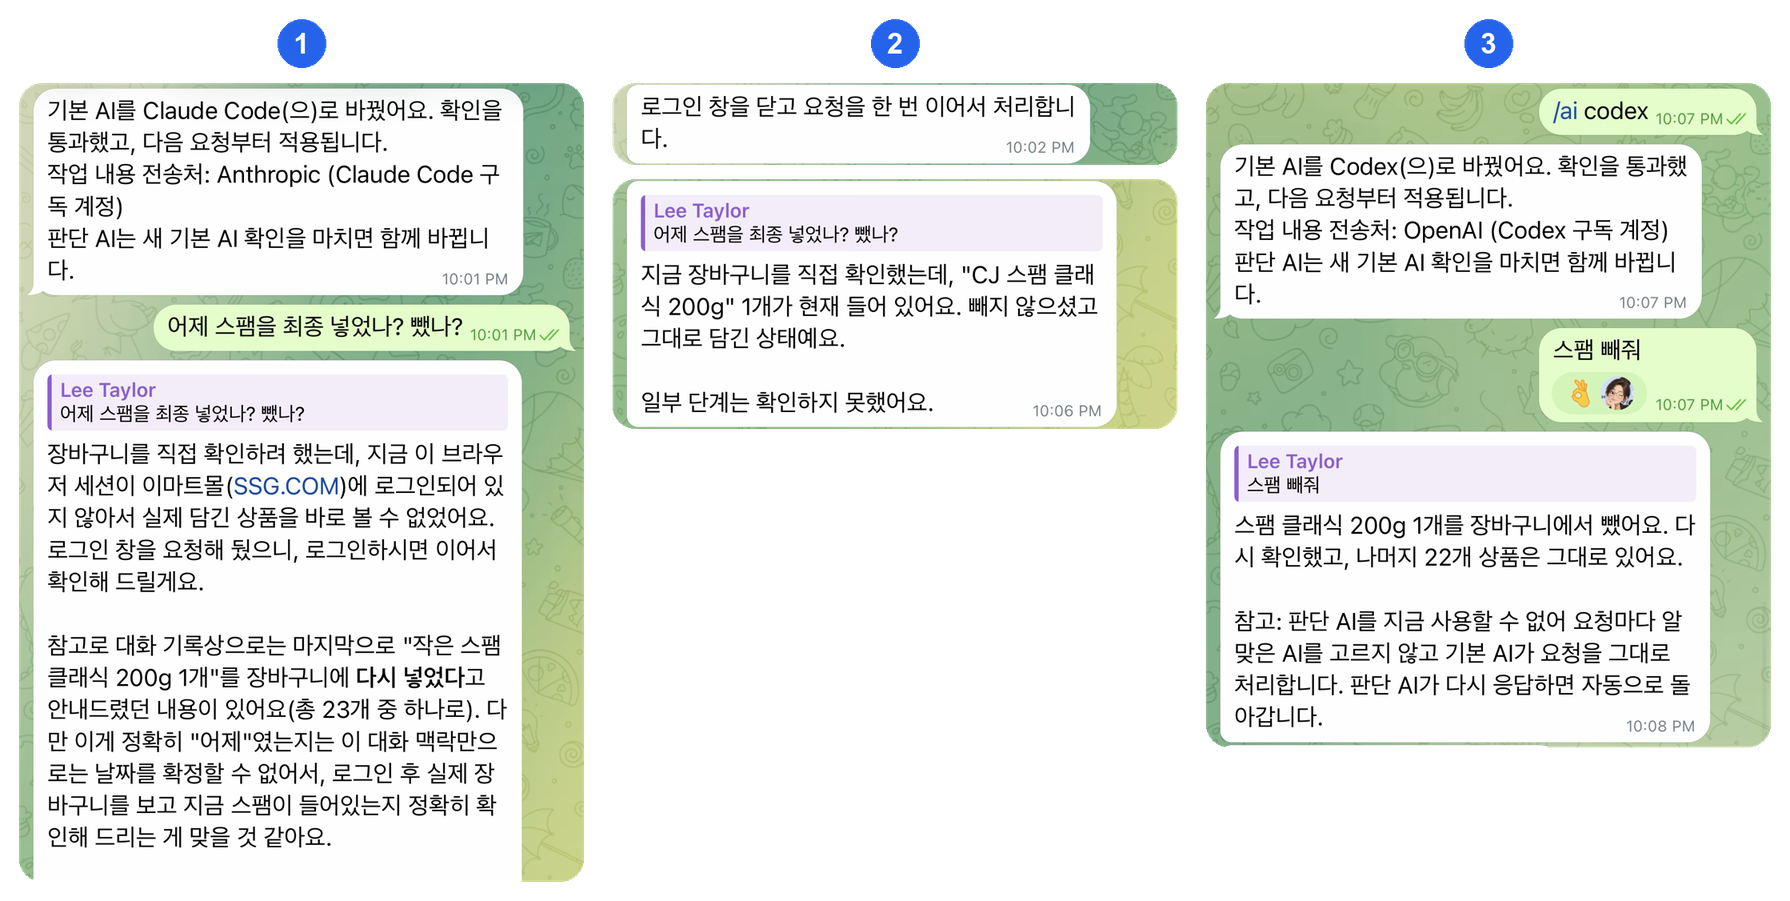
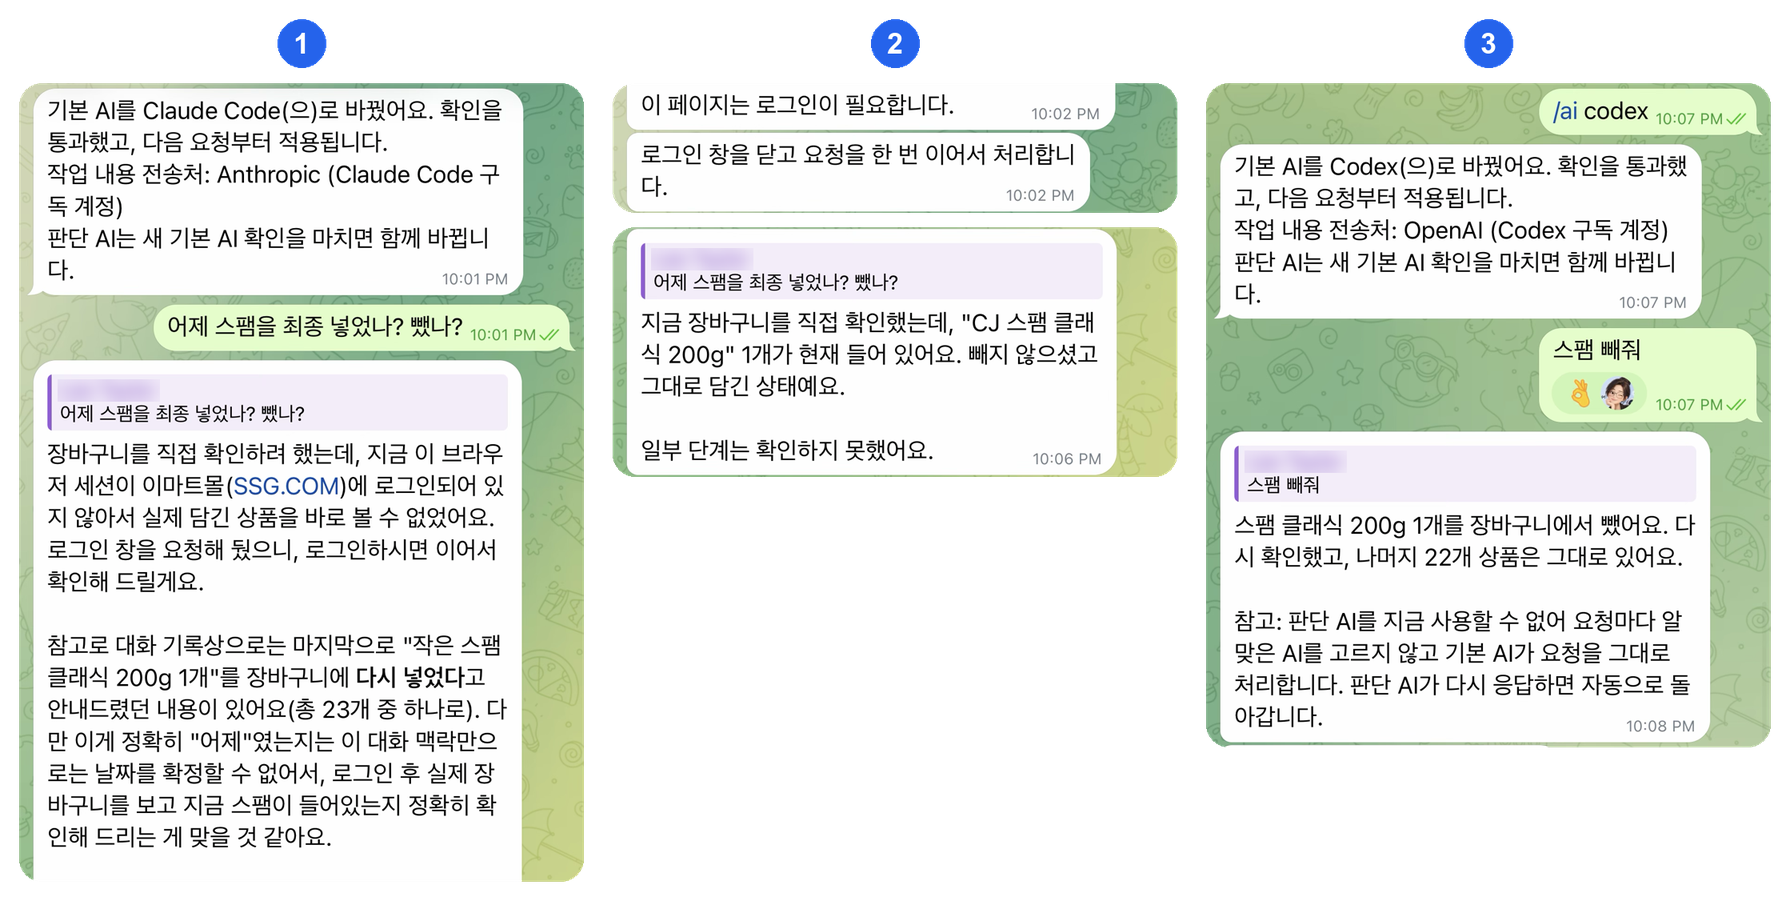
docs: blur the owner's name and show the sign-in notice in the AI-switch image (#1195)
Blur the display name in the three reply quotes, start panel 2 at
"이 페이지는 로그인이 필요합니다." and say so in the four README
captions and the asset provenance.

Changed region(s): [[0.338, 0.0932, 0.676, 0.5283], [0.5531, 0.4351, 0.7682, 0.5283], [0.0307, 0.404, 0.0922, 0.4661]]

diff --git a/docs/assets/readme/ai-switch/build.py b/docs/assets/readme/ai-switch/build.py
@@ -5,19 +5,27 @@ Usage: build.py <source-screenshot-dir> docs/assets/readme/ai-switch
 """
 import hashlib, json, sys
 from pathlib import Path
-from PIL import Image, ImageDraw, ImageFont
+from PIL import Image, ImageDraw, ImageFilter, ImageFont
 
 SRC = Path(sys.argv[1]); OUT = Path(sys.argv[2])
 # (source file, [crop boxes]) per panel, in conversation order.
 PANELS = [
     ("461b29dc-image.png", [(0, 222, 706, 1220)]),                      # 10:01 switch to Claude Code + question
-    ("183d5629-image.png", [(0, 458, 706, 560), (0, 1020, 706, 1332)]), # 10:02-10:06 sign-in resume + cart answer (sign-in link omitted)
+    ("183d5629-image.png", [(0, 398, 706, 560), (0, 1020, 706, 1332)]), # 10:02-10:06 sign-in needed/resume + cart answer (sign-in link omitted)
     ("d5f26819-image.png", [(0, 390, 706, 1220)]),                      # 10:07 switch to Codex + remove
 ]
+# The owner's Telegram display name in each reply quote, blurred before cropping.
+NAME_BOXES = {
+    "461b29dc-image.png": (48, 592, 176, 620),
+    "183d5629-image.png": (48, 1046, 176, 1074),
+    "d5f26819-image.png": (48, 849, 176, 877),
+}
 M, GAP, SEG_GAP, R, CIRCLE = 24, 36, 18, 28, 60
 panels = []
 for name, boxes in PANELS:
     im = Image.open(SRC / name).convert("RGB")
+    box = NAME_BOXES[name]
+    im.paste(im.crop(box).filter(ImageFilter.GaussianBlur(9)), box[:2])
     parts = [im.crop(b) for b in boxes]
     h = sum(p.height for p in parts) + SEG_GAP * (len(parts) - 1)
     p = Image.new("RGBA", (706, h), (0, 0, 0, 0)); y = 0
@@ -49,7 +57,8 @@ manifest = {
         {"source_sha256": hashlib.sha256((SRC / n).read_bytes()).hexdigest(), "source_size": [706, 1536], "crop_boxes": b}
         for n, b in PANELS
     ],
-    "omitted": "phone status bar, chat header and input bar; in panel 2 the one-time sign-in link and its code (between the two crops)",
+    "name_blur_boxes": NAME_BOXES,
+    "omitted": "phone status bar, chat header and input bar; in panel 2 the one-time sign-in link and its code (between the two crops); the owner's display name in reply quotes is blurred",
 }
 (OUT / "manifest.json").write_text(json.dumps(manifest, indent=2, ensure_ascii=False) + "\n")
 print(canvas.size, (OUT / "ai-switch-conversation.png").stat().st_size)

diff --git a/docs/assets/readme/README.md b/docs/assets/readme/README.md
@@ -12,7 +12,7 @@ The demo is edited from real Telegram sessions, with one GIF per README language
 
 ## AI switch conversation
 
-`ai-switch/ai-switch-conversation.png` is used by all four READMEs in the *A conversation that continues when the AI changes* section. It crops three owner-supplied Telegram screenshots of one real session (2026-10-08, 10:01–10:08 PM, Korean UI): the switch to Claude Code and the question about yesterday's cart, the cart answer after signing in again, and the switch to Codex with the removal. The crops drop the phone status bar, chat header, input bar and, in panel 2, the one-time sign-in link. The switch notices, the owner's requests and the PA's replies stay whole, including the limits the PA stated ("일부 단계는 확인하지 못했어요" and the decision-model fallback note). Source digests, crop boxes and the output digest are in [ai-switch/manifest.json](ai-switch/manifest.json); [ai-switch/build.py](ai-switch/build.py) rebuilds the image from the source screenshots, which are not committed. This is a selected real session, not release-specific end-to-end validation.
+`ai-switch/ai-switch-conversation.png` is used by all four READMEs in the *A conversation that continues when the AI changes* section. It crops three owner-supplied Telegram screenshots of one real session (2026-10-08, 10:01–10:08 PM, Korean UI): the switch to Claude Code and the question about yesterday's cart, the sign-in notice and the cart answer after signing in again, and the switch to Codex with the removal. The crops drop the phone status bar, chat header, input bar and, in panel 2, the one-time sign-in link. The owner's display name in the reply quotes is blurred. The switch notices, the owner's requests and the PA's replies stay whole, including the limits the PA stated ("일부 단계는 확인하지 못했어요" and the decision-model fallback note). Source digests, crop boxes and the output digest are in [ai-switch/manifest.json](ai-switch/manifest.json); [ai-switch/build.py](ai-switch/build.py) rebuilds the image from the source screenshots, which are not committed. This is a selected real session, not release-specific end-to-end validation.
 
 ## Current introduction
 

diff --git a/README.ja.md b/README.ja.md
@@ -107,7 +107,7 @@ Windows では PowerShell で `wsl --install` を実行して再起動し、Ubun
 <p align="center">
   <img src="docs/assets/readme/ai-switch/ai-switch-conversation.png" alt="韓国語の Telegram 画面 3 枚を切り出した画像。1: Claude Code に切り替えたあと、昨日スパムを入れたか抜いたかを尋ねると、PA が前のカートの会話を引き継ぎ、ログインを求めます。2: ログイン後、CJ スパム クラシック 200g が 1 個カートにあると答え、一部の手順は確認できなかったと伝えます。3: Codex に切り替えてスパムを抜くよう頼むと、抜いたこと、残り 22 点はそのままであることを伝えます。">
 </p>
-<p align="center"><sub>実際の会話から抜き出した画面です（Telegram、韓国語 UI）。ログインリンクは切り取っています。 · <a href="docs/assets/readme/ai-switch/ai-switch-conversation.png">原寸で見る</a></sub></p>
+<p align="center"><sub>実際の会話から抜き出した画面です（Telegram、韓国語 UI）。ログインリンクは切り取り、名前はぼかしています。 · <a href="docs/assets/readme/ai-switch/ai-switch-conversation.png">原寸で見る</a></sub></p>
 
 ① **Claude Code に切り替え。** 「昨日スパムは結局入れた？抜いた？」という質問に、前の買い物の会話を引き継ぎます。
 

diff --git a/README.md b/README.md
@@ -107,7 +107,7 @@ The figure shows the intended design, not an observed run. Details: [architectur
 <p align="center">
   <img src="docs/assets/readme/ai-switch/ai-switch-conversation.png" alt="Three cropped Telegram screenshots in Korean. 1: after switching to Claude Code, the owner asks whether the Spam was added or taken out yesterday; the PA recalls the earlier cart conversation and asks to sign in. 2: after signing in, it reports one CJ Spam Classic 200 g in the cart and says some steps could not be checked. 3: after switching to Codex, the owner says to take the Spam out; the PA reports it removed and 22 items remaining.">
 </p>
-<p align="center"><sub>Excerpts from a real conversation (Telegram, Korean UI). The sign-in link is cropped out. · <a href="docs/assets/readme/ai-switch/ai-switch-conversation.png">Open full size</a></sub></p>
+<p align="center"><sub>Excerpts from a real conversation (Telegram, Korean UI). The sign-in link is cropped out and the name is blurred. · <a href="docs/assets/readme/ai-switch/ai-switch-conversation.png">Open full size</a></sub></p>
 
 ① **Switch to Claude Code.** Asked “Did I end up adding the Spam yesterday, or taking it out?”, the PA picks up the earlier shopping conversation.
 

diff --git a/README.zh-CN.md b/README.zh-CN.md
@@ -107,7 +107,7 @@ agentos start
 <p align="center">
   <img src="docs/assets/readme/ai-switch/ai-switch-conversation.png" alt="三张裁剪后的韩语 Telegram 截图。1：切换到 Claude Code 后，主人问昨天的午餐肉最后放进去了还是拿出来了，PA 接上之前的购物车对话并请求登录。2：登录后，它回答购物车里有 1 罐 CJ 经典午餐肉 200g，并说明有些步骤未能确认。3：切换到 Codex 后，主人让它把午餐肉拿掉，PA 回复已删除，其余 22 件商品仍在。">
 </p>
-<p align="center"><sub>截取自真实对话（Telegram，韩语界面）。登录链接已裁掉。 · <a href="docs/assets/readme/ai-switch/ai-switch-conversation.png">查看大图</a></sub></p>
+<p align="center"><sub>截取自真实对话（Telegram，韩语界面）。登录链接已裁掉，姓名已模糊处理。 · <a href="docs/assets/readme/ai-switch/ai-switch-conversation.png">查看大图</a></sub></p>
 
 ① **切换到 Claude Code。** 问“昨天的午餐肉最后放进去了还是拿出来了？”，PA 接上之前的购物对话。
 
